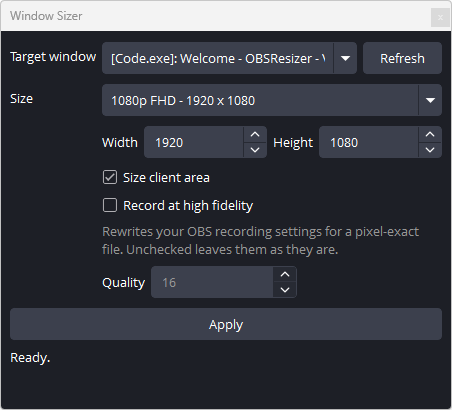
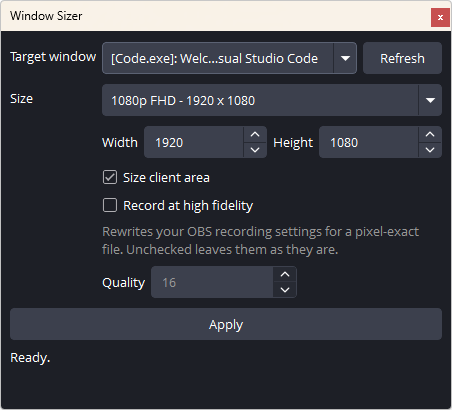
Debounce refreshes, finish tooltips and dock elision, add .gitattributes
Closes #6: three frontend events fire within milliseconds at startup and each
triggered a full window-list rebuild. A 150ms single-shot timer collapses a
burst into one refresh. Verified: one log line at startup instead of three.

Closes #8: every interactive control now has a tooltip, and every tooltip
string moved out of buildUi() into the locale file, which #14 depends on. The
recording tooltip names the encoder actually resolved on the machine. Trimmed
to three short paragraphs to meet the issue own acceptance criterion.

Closes #7: QComboBox truncates its closed-state text and setTextElideMode only
affects the dropdown, so the closed state is now painted with middle elision -
keeping the executable prefix and the tail of the title, which is what tells two
similar windows apart. Wrapped labels and the status line already had height
reserved.

Closes #13: .gitattributes normalises line endings instead of leaving it to each
contributor autocrlf setting. Nothing needed renormalising and the warnings are
gone.

Changed region(s): [[0.4646, 0.1171, 0.7124, 0.1756], [0.9292, 0.0, 1.0, 0.0878], [0.031, 0.0293, 0.1858, 0.0585]]

diff --git a/src/window-sizer-dock.cpp b/src/window-sizer-dock.cpp
@@ -24,6 +24,9 @@ See LICENSE in the project root for the full licence text.
 #include <QPushButton>
 #include <QSignalBlocker>
 #include <QSpinBox>
+#include <QStyleOptionComboBox>
+#include <QStylePainter>
+#include <QTimer>
 #include <QVBoxLayout>
 
 #include <cstring>
@@ -37,6 +40,34 @@ constexpr const char *kWindowCaptureId = "window_capture";
 
 /* The name given to a capture source when the plugin has to create one. */
 constexpr const char *kCreatedSourceName = "Window Sizer Capture";
+
+/*
+ * QComboBox truncates its closed-state text rather than eliding it, and
+ * setTextElideMode() only affects the dropdown list. Window titles are
+ * routinely longer than any sensible dock width, so paint the closed state
+ * ourselves with middle elision - that keeps the "[executable.exe]" prefix and
+ * the tail of the title, which is what tells two similar windows apart.
+ */
+class ElidingComboBox : public QComboBox {
+public:
+	explicit ElidingComboBox(QWidget *parent = nullptr) : QComboBox(parent) {}
+
+protected:
+	void paintEvent(QPaintEvent *) override
+	{
+		QStylePainter painter(this);
+		painter.setPen(palette().color(QPalette::Text));
+
+		QStyleOptionComboBox opt;
+		initStyleOption(&opt);
+		painter.drawComplexControl(QStyle::CC_ComboBox, opt);
+
+		const QRect textRect =
+			style()->subControlRect(QStyle::CC_ComboBox, &opt, QStyle::SC_ComboBoxEditField, this);
+		opt.currentText = painter.fontMetrics().elidedText(opt.currentText, Qt::ElideMiddle, textRect.width());
+		painter.drawControl(QStyle::CE_ComboBoxLabel, opt);
+	}
+};
 
 struct Preset {
 	const char *label;
@@ -125,14 +156,28 @@ WindowSizerDock::~WindowSizerDock()
 	obs_frontend_remove_event_callback(onFrontendEvent, this);
 }
 
+void WindowSizerDock::scheduleRefresh()
+{
+	/* Restarting the timer on each request means a burst of frontend events
+	 * collapses into one refresh shortly after the last of them. */
+	m_refreshTimer->start();
+}
+
 void WindowSizerDock::buildUi()
 {
+	/* Short enough to feel immediate, long enough to swallow the startup
+	 * burst of FINISHED_LOADING + SCENE_CHANGED + SCENE_LIST_CHANGED. */
+	m_refreshTimer = new QTimer(this);
+	m_refreshTimer->setSingleShot(true);
+	m_refreshTimer->setInterval(150);
+	connect(m_refreshTimer, &QTimer::timeout, this, &WindowSizerDock::refreshWindows);
+
 	auto *layout = new QVBoxLayout(this);
 
 	auto *form = new QFormLayout();
 
 	/* Target window ------------------------------------------------- */
-	m_windowCombo = new QComboBox(this);
+	m_windowCombo = new ElidingComboBox(this);
 	m_windowCombo->setSizeAdjustPolicy(QComboBox::AdjustToMinimumContentsLengthWithIcon);
 	m_windowCombo->setMinimumContentsLength(16);
 	/* Window titles are routinely longer than any sensible dock width. Elide
@@ -140,10 +185,20 @@ void WindowSizerDock::buildUi()
 	 * stay visible, and keep the full text available as a tooltip. */
 	m_windowCombo->view()->setTextElideMode(Qt::ElideMiddle);
 	connect(m_windowCombo, &QComboBox::currentIndexChanged, this, [this](int) {
-		m_windowCombo->setToolTip(m_windowCombo->currentText());
+		/* Full title first, since that is the bit that gets elided, then the
+		 * explanation of where the list comes from. */
+		const QString full = m_windowCombo->currentText();
+		m_windowCombo->setToolTip(full.isEmpty()
+						  ? QString::fromUtf8(obs_module_text("WindowSizer.TargetWindow.Tip"))
+						  : QStringLiteral("<p><b>%1</b></p>%2")
+							    .arg(full.toHtmlEscaped(),
+								 QString::fromUtf8(obs_module_text(
+									 "WindowSizer.TargetWindow.Tip"))));
 	});
+	m_windowCombo->setToolTip(obs_module_text("WindowSizer.TargetWindow.Tip"));
 
 	m_refreshButton = new QPushButton(obs_module_text("WindowSizer.Refresh"), this);
+	m_refreshButton->setToolTip(obs_module_text("WindowSizer.Refresh.Tip"));
 
 	auto *windowRow = new QHBoxLayout();
 	windowRow->addWidget(m_windowCombo, 1);
@@ -156,6 +211,7 @@ void WindowSizerDock::buildUi()
 		m_presetCombo->addItem(QString::fromUtf8(preset.label));
 	m_presetCombo->addItem(obs_module_text("WindowSizer.Custom"));
 	m_presetCombo->setCurrentIndex(kDefaultPresetIndex);
+	m_presetCombo->setToolTip(obs_module_text("WindowSizer.Size.Tip"));
 	form->addRow(obs_module_text("WindowSizer.Size"), m_presetCombo);
 
 	m_widthSpin = new QSpinBox(this);
@@ -166,10 +222,19 @@ void WindowSizerDock::buildUi()
 	m_heightSpin->setRange(1, 16384);
 	m_heightSpin->setValue(kPresets[kDefaultPresetIndex].height);
 
+	const QString sizeTip = QString::fromUtf8(obs_module_text("WindowSizer.Size.Spin.Tip"));
+	m_widthSpin->setToolTip(sizeTip);
+	m_heightSpin->setToolTip(sizeTip);
+
+	auto *widthLabel = new QLabel(obs_module_text("WindowSizer.Width"), this);
+	auto *heightLabel = new QLabel(obs_module_text("WindowSizer.Height"), this);
+	widthLabel->setToolTip(sizeTip);
+	heightLabel->setToolTip(sizeTip);
+
 	auto *sizeRow = new QHBoxLayout();
-	sizeRow->addWidget(new QLabel(obs_module_text("WindowSizer.Width"), this));
+	sizeRow->addWidget(widthLabel);
 	sizeRow->addWidget(m_widthSpin, 1);
-	sizeRow->addWidget(new QLabel(obs_module_text("WindowSizer.Height"), this));
+	sizeRow->addWidget(heightLabel);
 	sizeRow->addWidget(m_heightSpin, 1);
 	form->addRow(QString(), sizeRow);
 
@@ -177,6 +242,7 @@ void WindowSizerDock::buildUi()
 	m_clientAreaCheck = new QCheckBox(obs_module_text("WindowSizer.SizeClientArea"), this);
 	/* Matches the window_capture source default, which is client_area on. */
 	m_clientAreaCheck->setChecked(true);
+	m_clientAreaCheck->setToolTip(obs_module_text("WindowSizer.SizeClientArea.Tip"));
 	form->addRow(QString(), m_clientAreaCheck);
 
 	/* Recording ------------------------------------------------------ */
@@ -189,21 +255,10 @@ void WindowSizerDock::buildUi()
 	if (encoderName.empty()) {
 		m_configureRecordingCheck->setEnabled(false);
 		m_configureRecordingCheck->setToolTip(
-			QStringLiteral("Unavailable: no NVIDIA NVENC encoder is registered on this machine."));
+			obs_module_text("WindowSizer.ConfigureRecording.Unavailable"));
 	} else {
 		m_configureRecordingCheck->setToolTip(
-			QStringLiteral(
-				"<p>Rewrites OBS's recording settings so the recorded file is as close "
-				"to what you see as is practical.</p>"
-				"<p><b>Encoder:</b> %1<br>"
-				"Constant quality (CQP), two-pass quarter-res, and psycho-visual AQ "
-				"turned off so static UI text stays sharp.<br>"
-				"Recording rescale is switched off, so the file is exactly the window "
-				"size with no resampling.</p>"
-				"<p>Near-lossless rather than truly lossless: OBS records 4:2:0 colour, "
-				"which softens coloured text edges slightly.</p>"
-				"<p>This edits your OBS profile. It does not start a recording - OBS's "
-				"own Record button still does that.</p>")
+			QString::fromUtf8(obs_module_text("WindowSizer.ConfigureRecording.Tip"))
 				.arg(QString::fromStdString(encoderName)));
 	}
 	form->addRow(QString(), m_configureRecordingCheck);
@@ -226,10 +281,7 @@ void WindowSizerDock::buildUi()
 	m_cqSpin->setRange(10, 30);
 	m_cqSpin->setValue(16);
 	m_cqSpin->setEnabled(false);
-	m_cqSpin->setToolTip(QStringLiteral(
-		"<p>Constant quality level. Lower is better quality and a bigger file.<br>"
-		"16 is visually lossless for UI content; 18-20 is noticeably smaller and "
-		"still good.</p>"));
+	m_cqSpin->setToolTip(obs_module_text("WindowSizer.CQ.Tip"));
 
 	auto *cqRow = new QHBoxLayout();
 	auto *cqLabel = new QLabel(obs_module_text("WindowSizer.CQ"), this);
@@ -243,12 +295,14 @@ void WindowSizerDock::buildUi()
 
 	/* Apply ---------------------------------------------------------- */
 	m_applyButton = new QPushButton(obs_module_text("WindowSizer.Apply"), this);
+	m_applyButton->setToolTip(obs_module_text("WindowSizer.Apply.Tip"));
 	layout->addWidget(m_applyButton);
 
 	/* Status --------------------------------------------------------- */
 	m_statusLabel = new QLabel(obs_module_text("WindowSizer.Status.Ready"), this);
 	m_statusLabel->setWordWrap(true);
 	m_statusLabel->setTextInteractionFlags(Qt::TextSelectableByMouse);
+	m_statusLabel->setToolTip(obs_module_text("WindowSizer.Status.Tip"));
 	/* Apply can produce a long message - a refusal, plus an odd-dimension
 	 * warning, plus the recording result. Reserve room for it rather than
 	 * clipping, and let it grow beyond that if a message is longer still. */
@@ -646,7 +700,8 @@ void WindowSizerDock::onFrontendEvent(enum obs_frontend_event event, void *data)
 	}
 
 	auto *dock = static_cast<WindowSizerDock *>(data);
-	/* Queued so the work happens on the Qt thread no matter which thread
-	 * the frontend raised the event on. */
-	QMetaObject::invokeMethod(dock, "refreshWindows", Qt::QueuedConnection);
+	/* Queued so the work happens on the Qt thread no matter which thread the
+	 * frontend raised the event on, and debounced because OBS raises several
+	 * of these within a few milliseconds at startup. */
+	QMetaObject::invokeMethod(dock, "scheduleRefresh", Qt::QueuedConnection);
 }

diff --git a/src/window-sizer-dock.hpp b/src/window-sizer-dock.hpp
@@ -17,6 +17,7 @@ class QComboBox;
 class QLabel;
 class QPushButton;
 class QSpinBox;
+class QTimer;
 
 /*
  * The dock. OBS takes ownership of this widget when it is handed to
@@ -36,6 +37,11 @@ public slots:
 	void refreshWindows();
 
 private slots:
+	/* Coalesces refresh requests. OBS raises several frontend events in
+	 * quick succession at startup and on scene changes, and refreshing on
+	 * each one rebuilds the whole window list needlessly. */
+	void scheduleRefresh();
+
 	void onPresetChanged(int index);
 	void onSizeEdited();
 	void onApply();
@@ -60,6 +66,7 @@ private:
 	QSpinBox *m_cqSpin = nullptr;
 	QPushButton *m_applyButton = nullptr;
 	QLabel *m_statusLabel = nullptr;
+	QTimer *m_refreshTimer = nullptr;
 
 	/* Guards the preset combo from flipping to Custom while we are the ones
 	 * writing the spin boxes. */
